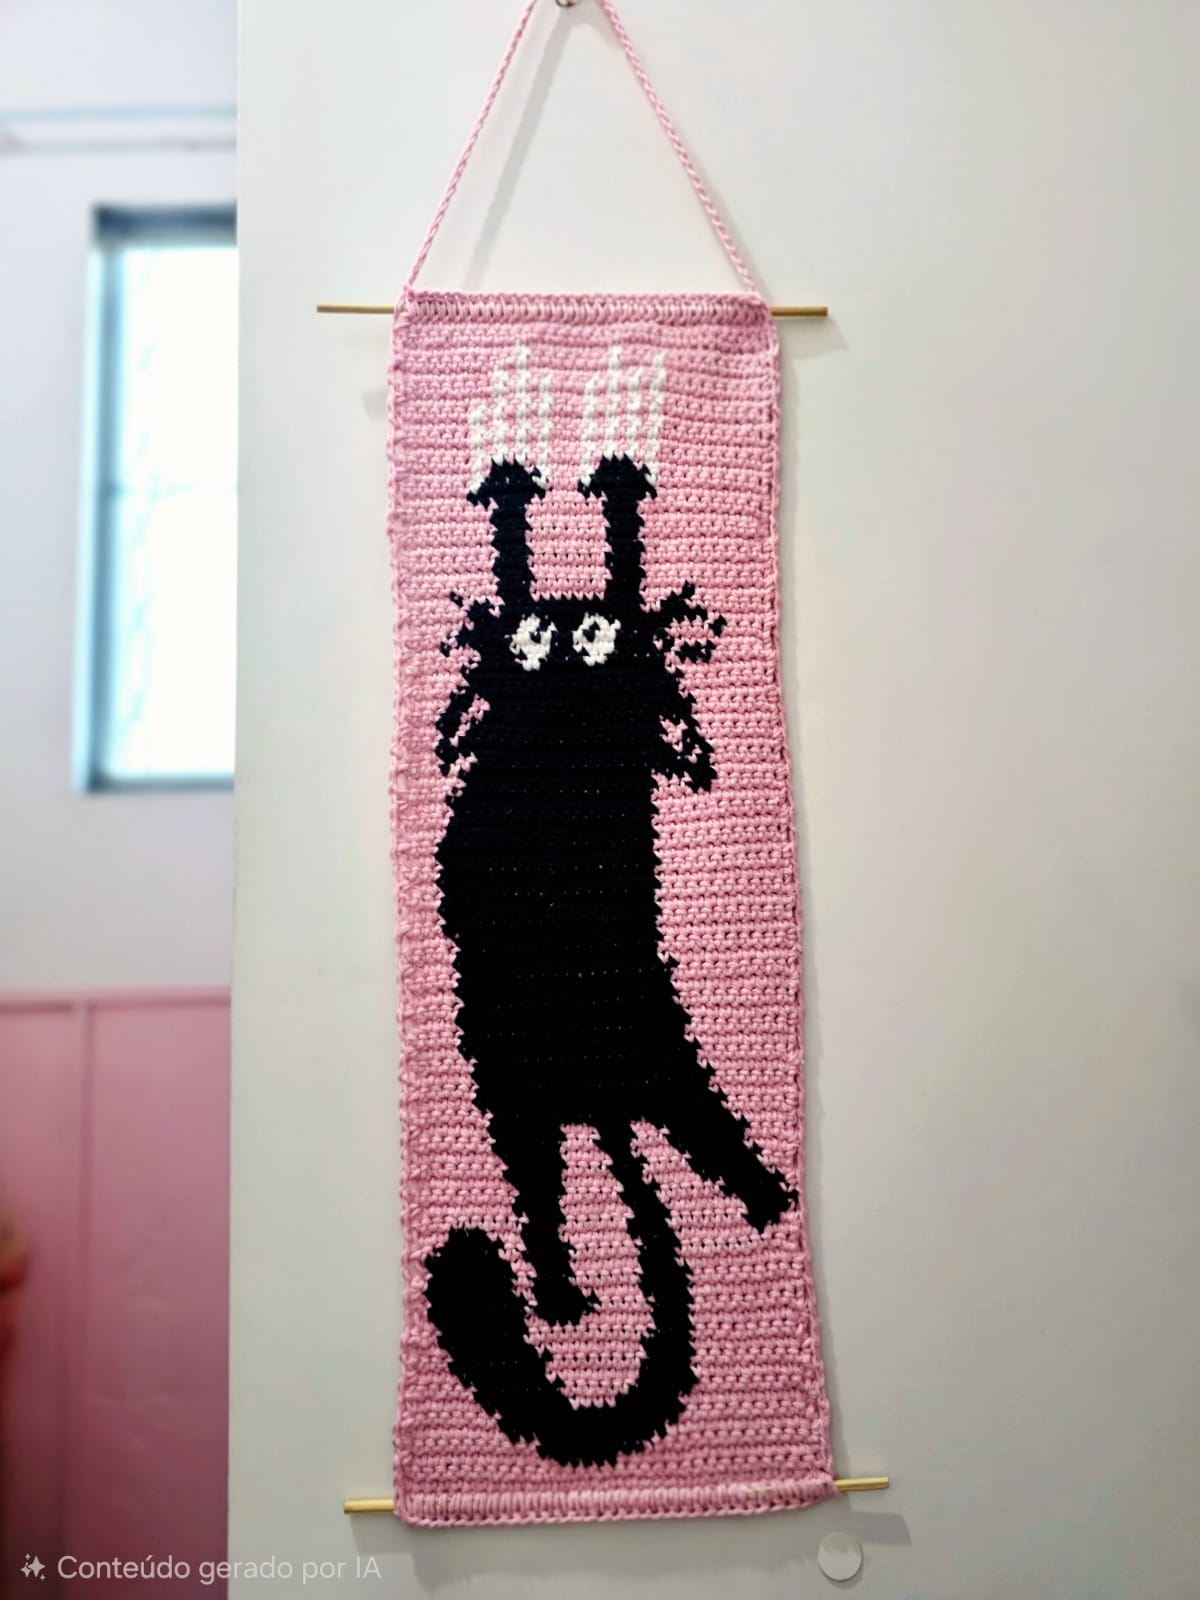
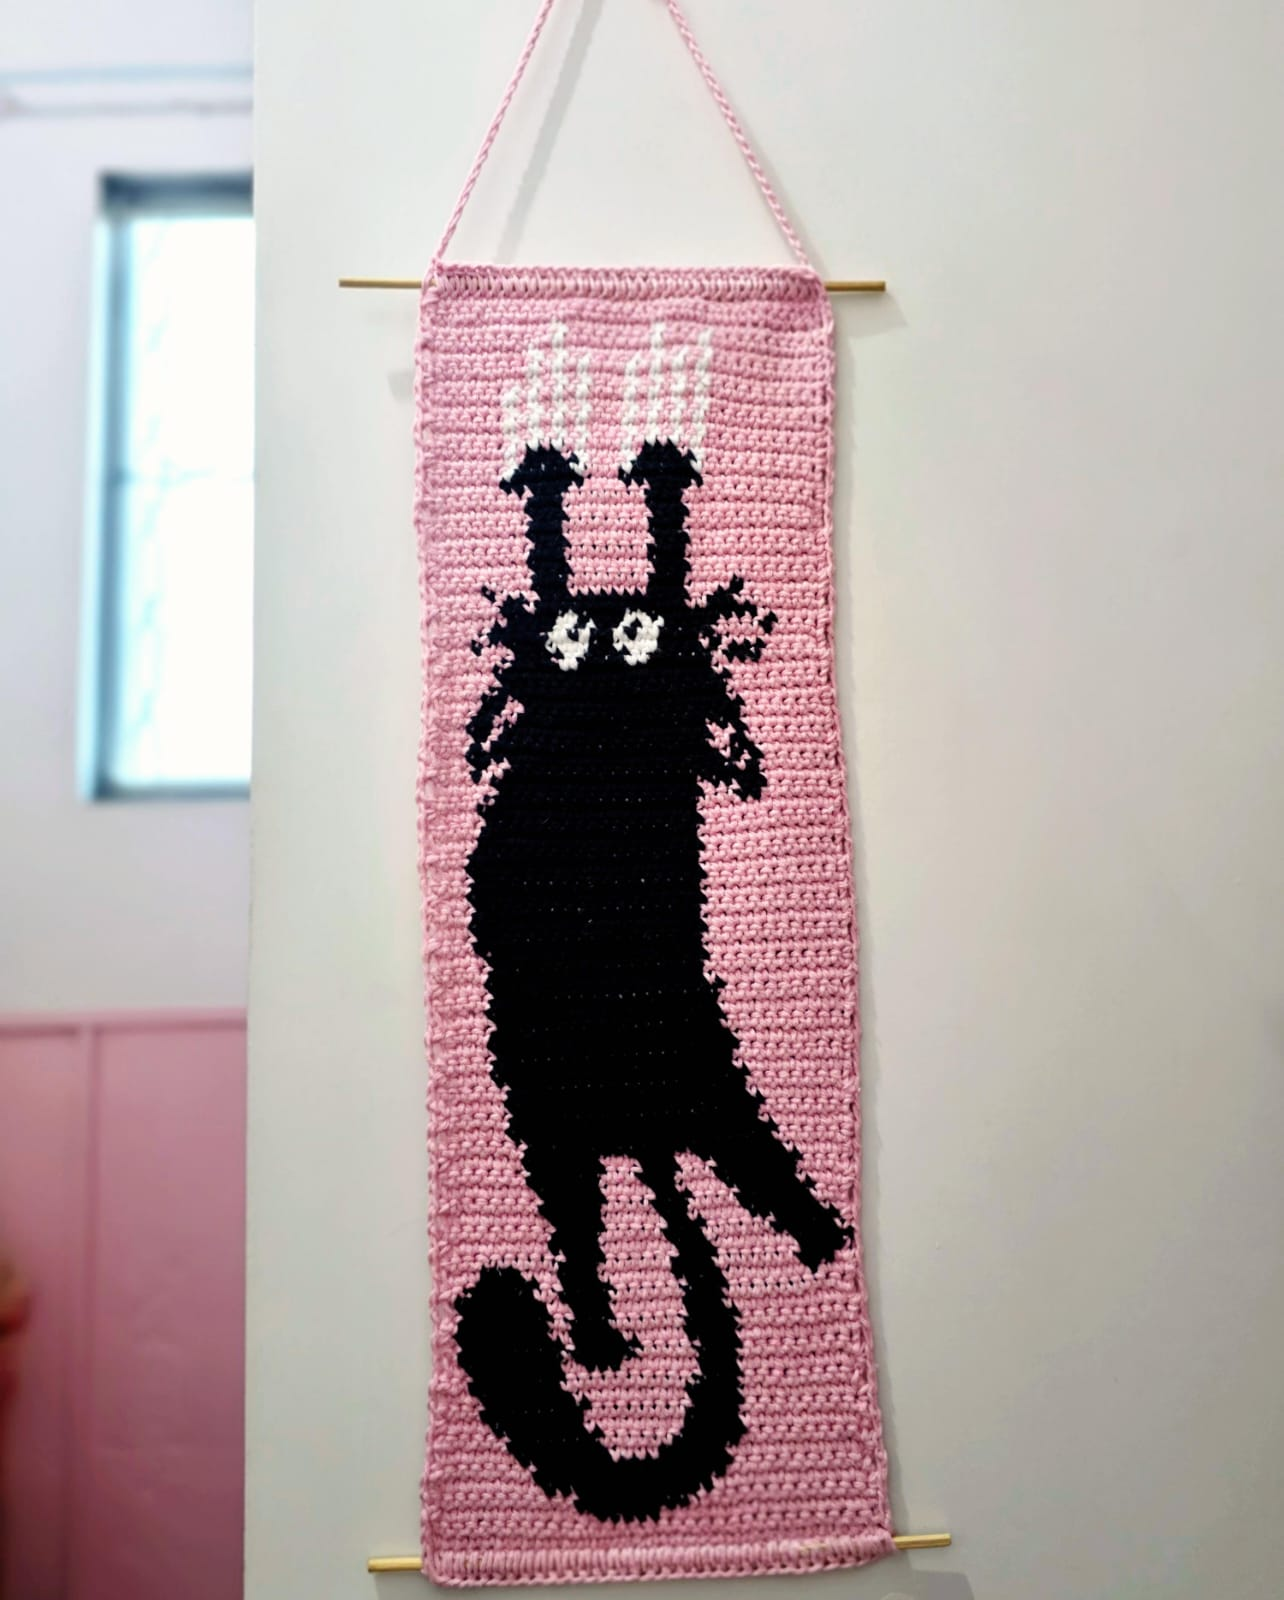
fix: ajustando imagens finais

diff --git a/styles.css b/styles.css
@@ -690,6 +690,11 @@ a {
     margin: 0;
 }
 
+/* Garantir que os cards do carrossel tenham altura uniforme */
+.produtos-grid {
+    align-items: stretch;
+}
+
 .produtos-carousel.is-overflowing .produtos-grid {
     justify-content: flex-start;
 }
@@ -708,6 +713,11 @@ a {
     max-width: var(--prod-card-width);
     scroll-snap-align: start;
     scroll-snap-stop: always;
+}
+
+/* Altura mínima para manter os cards alinhados visualmente */
+.produto-card {
+    min-height: 460px;
 }
 
 .produtos-carousel-btn {
@@ -779,6 +789,19 @@ a {
     }
 }
 
+/* Ajustes responsivos para manter alinhamento visual dos cards */
+@media (max-width: 900px) {
+    .produto-card {
+        min-height: 420px;
+    }
+}
+
+@media (max-width: 768px) {
+    .produto-card {
+        min-height: auto;
+    }
+}
+
 .produto-card:hover,
 .produto-card:focus-within {
     transform: translateY(-8px);
@@ -835,7 +858,7 @@ a {
     display: inline-flex;
     align-items: center;
     gap: 6px;
-    margin-top: 6px;
+    margin-top: auto; /* empurra o botão para o rodapé do card */
     font-size: 11px;
     font-weight: var(--font-weight-bold);
     letter-spacing: 0.06em;